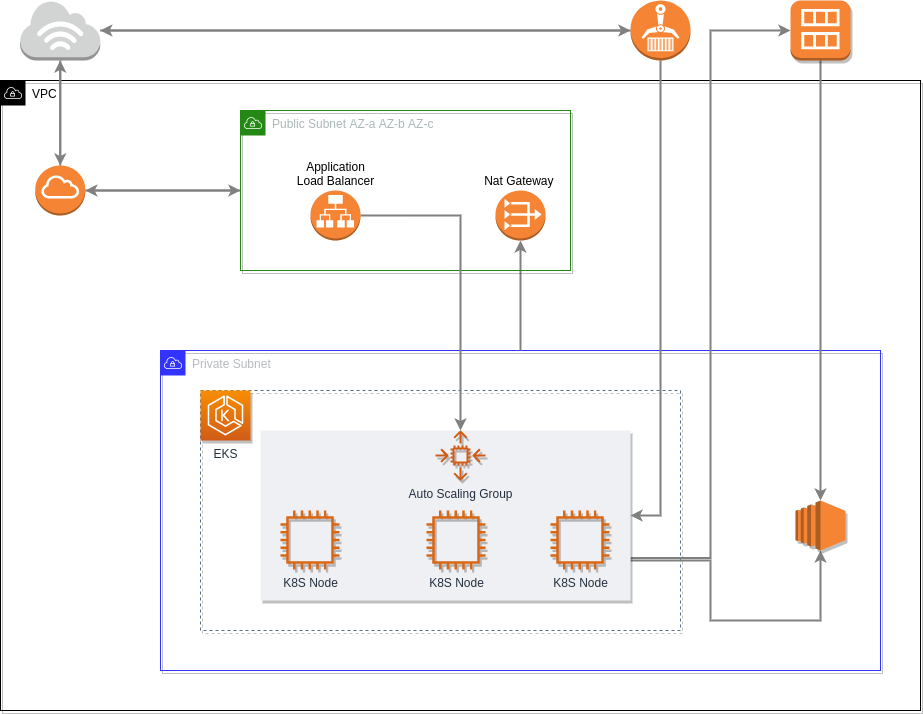
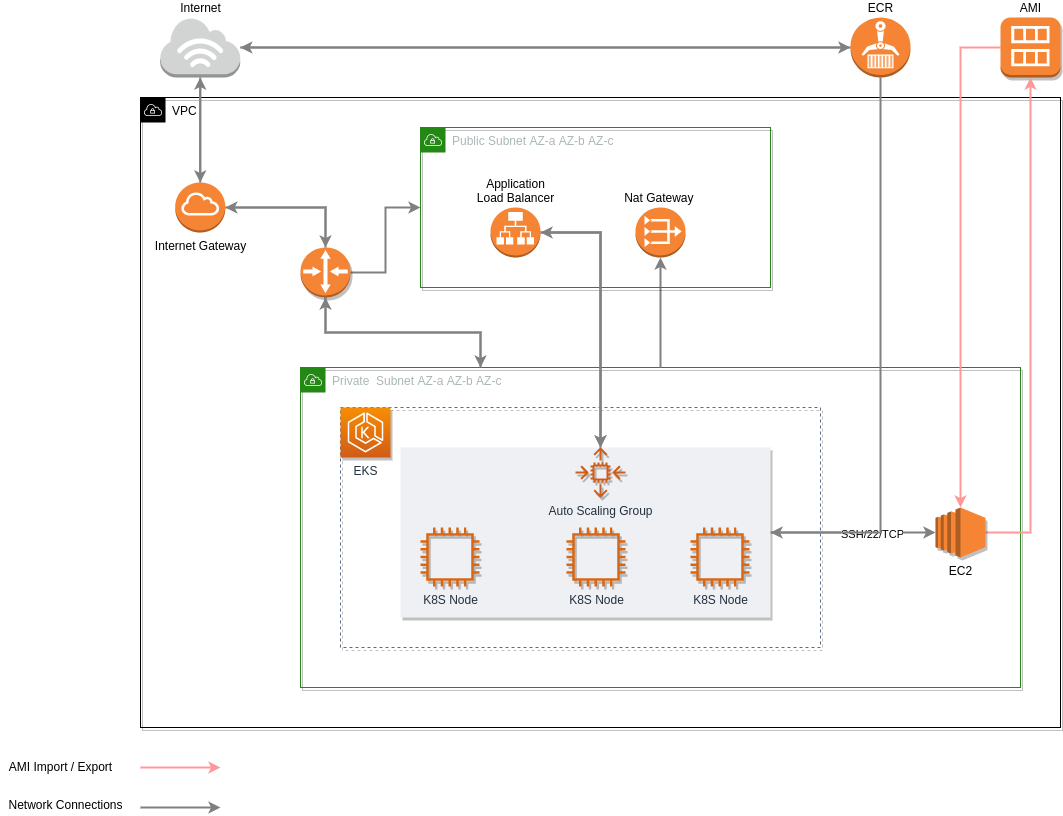
Documentation: Adding first steps.

Changed region(s): [[0.0, 0.0, 1.0, 0.9552], [0.0, 0.9244, 1.0, 1.0]]

diff --git a/README.md b/README.md
@@ -1,2 +1,43 @@
 # Backbase
-Backbase assignment Devops
+![Diagram](backbase.png)
+
+Backbase assignment project.
+
+## Understandment
+
+- Create an scalabe Kubernetes deploy of a given tomcat. Setup ingress and autoscale.
+- Create an EC2 instance using terraform, the EC2 must be able to query Google, using curl.
+
+
+# Execution Plan
+
+- Generate an K8S cluster to deploy the tomcat application.
+- Deploy Tomcat 8 app using provided resources.
+- Create ingress for tomcat service.
+- Open application to be queried externally ( this will also include VPC changes to allow ingress connection). Use Port 8080
+- Scale solution accordingly - [here] (https://kubernetes.io/docs/tasks/run-application/horizontal-pod-autoscale-walkthrough/) 
+- Use multiple AZs
+
+# Getting Started
+
+
+# Deploy application
+
+
+# Tomcat 8 - K8S
+
+
+# Terraform provision cluster
+
+
+# Packer Image Builder
+
+
+# Improvements ( To Do )
+
+- At the moment Packer is handling the build of images `in loco` since **AWS Image Builder** needs to be supported as Terraform provider.
+  https://github.com/terraform-providers/terraform-provider-aws/issues/11084
+
+- For this project it wasn't deployed any sidecars for aplication logging.
+
+ 
